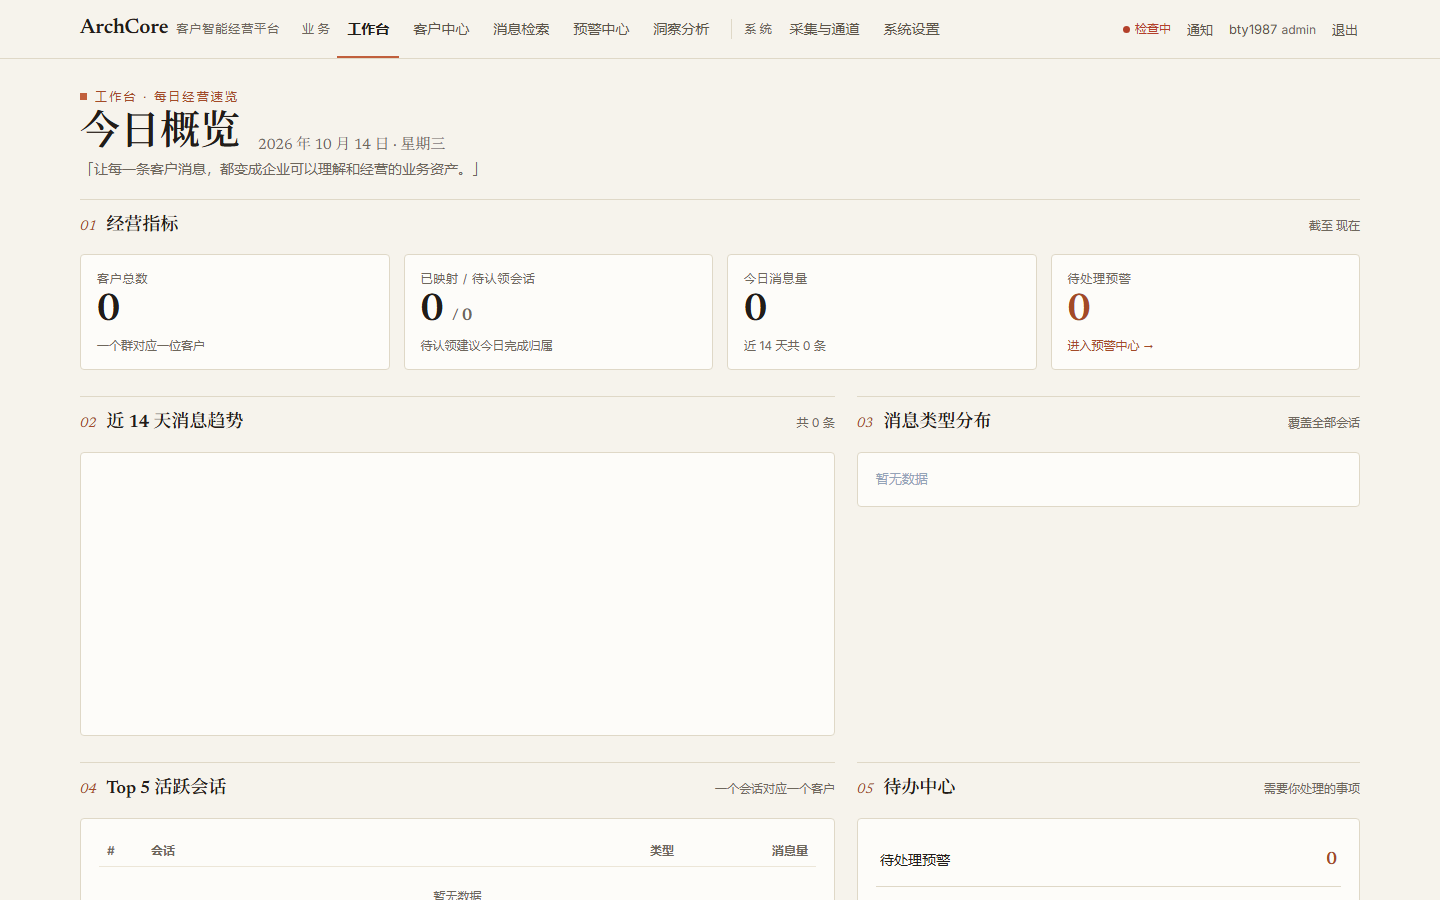
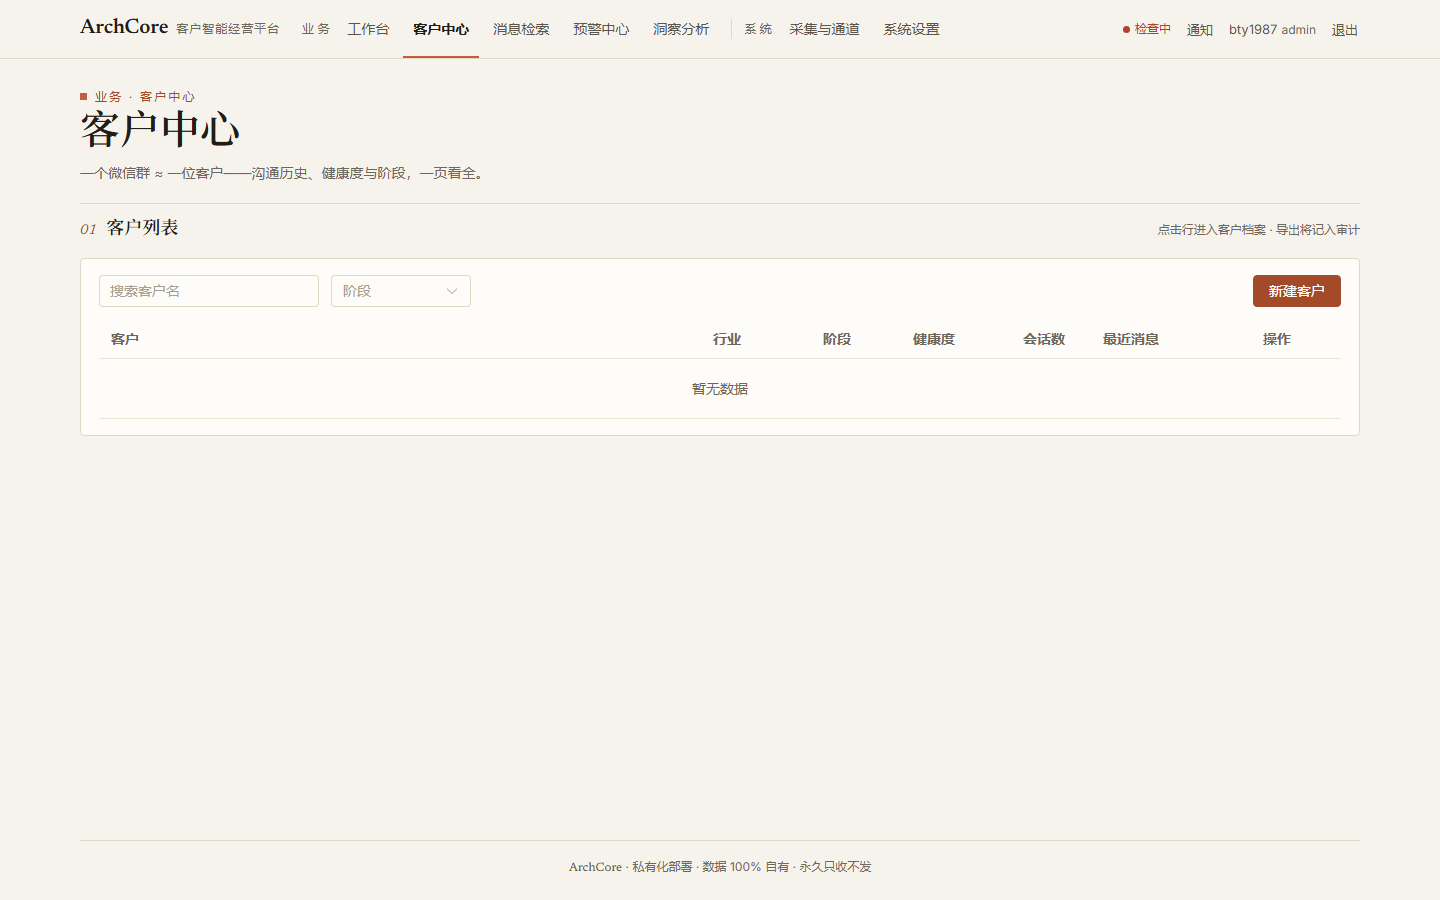
feat(web): 暖纸主题铺满全站——七页分节化收尾
- CustomerList/SessionBrowser/AlertCenter/Insights/CollectorPanel/Settings/CustomerDetail
  统一加 page-head(kicker+衬线大标题+standfirst)与 01-0N 斜体图号分节
- SessionBrowser:修复消息标签重复渲染(两块相同 v-if)、emoji 图标改中文文字芯片
  (图片/视频/语音/文件…),警示色残留统一暖纸 token
- CollectorPanel 版本冻结描述修正(4.1.8.67,替换断卡时顺手正口径)
- 五页 playwright 截图验收(design-redesign/vue_*.png),hash 路由下分节排版全生效

diff --git a/web/src/views/CustomerList.vue b/web/src/views/CustomerList.vue
@@ -43,56 +43,71 @@ async function doExport(id: number) {
 </script>
 
 <template>
-  <div class="card">
-    <div style="display: flex; gap: 12px; margin-bottom: 12px">
-      <el-input v-model="q" placeholder="搜索客户名" style="width: 220px" clearable @change="load" />
-      <el-select v-model="stage" placeholder="阶段" style="width: 140px" clearable @change="load">
-        <el-option v-for="s in STAGES" :key="s.value" :label="s.label" :value="s.value" />
-      </el-select>
-      <div style="flex: 1" />
-      <el-button type="primary" @click="dialog = true">新建客户</el-button>
+  <div>
+    <div class="page-head">
+      <div class="page-kicker">业务 · 客户中心</div>
+      <h1 class="page-title">客户中心</h1>
+      <div class="page-standfirst">一个微信群 ≈ 一位客户——沟通历史、健康度与阶段，一页看全。</div>
     </div>
 
-    <el-table :data="rows" @row-click="(r: any) => router.push(`/customers/${r.id}`)">
-      <el-table-column prop="name" label="客户" min-width="140" />
-      <el-table-column prop="industry" label="行业" width="110" />
-      <el-table-column label="阶段" width="90">
-        <template #default="{ row }">
-          {{ STAGES.find((s) => s.value === row.stage)?.label || row.stage }}
-        </template>
-      </el-table-column>
-      <el-table-column label="健康度" width="110">
-        <template #default="{ row }">
-          <el-tag v-if="row.health_level" :type="row.health_level === 'green' ? 'success' :
-            row.health_level === 'yellow' ? 'warning' : 'danger'">
-            {{ row.health_score }}
-          </el-tag>
-          <span v-else>-</span>
-        </template>
-      </el-table-column>
-      <el-table-column prop="session_count" label="会话数" width="80" />
-      <el-table-column prop="last_msg_at" label="最近消息" width="160" />
-      <el-table-column label="操作" width="90">
-        <template #default="{ row }">
-          <el-button link type="primary" @click.stop="doExport(row.id)">导出</el-button>
-        </template>
-      </el-table-column>
-    </el-table>
-
-    <el-dialog v-model="dialog" title="新建客户" width="420">
-      <el-form label-width="64">
-        <el-form-item label="名称"><el-input v-model="form.name" /></el-form-item>
-        <el-form-item label="行业"><el-input v-model="form.industry" /></el-form-item>
-        <el-form-item label="阶段">
-          <el-select v-model="form.stage">
+    <section class="section">
+      <div class="section-head">
+        <span class="section-no">01</span>
+        <span class="section-title">客户列表</span>
+        <span class="section-note">点击行进入客户档案 · 导出将记入审计</span>
+      </div>
+      <div class="card">
+        <div style="display: flex; gap: 12px; margin-bottom: 12px">
+          <el-input v-model="q" placeholder="搜索客户名" style="width: 220px" clearable @change="load" />
+          <el-select v-model="stage" placeholder="阶段" style="width: 140px" clearable @change="load">
             <el-option v-for="s in STAGES" :key="s.value" :label="s.label" :value="s.value" />
           </el-select>
-        </el-form-item>
-      </el-form>
-      <template #footer>
-        <el-button @click="dialog = false">取消</el-button>
-        <el-button type="primary" @click="save">保存</el-button>
-      </template>
-    </el-dialog>
+          <div style="flex: 1" />
+          <el-button type="primary" @click="dialog = true">新建客户</el-button>
+        </div>
+
+        <el-table :data="rows" @row-click="(r: any) => router.push(`/customers/${r.id}`)">
+          <el-table-column prop="name" label="客户" min-width="140" />
+          <el-table-column prop="industry" label="行业" width="110" />
+          <el-table-column label="阶段" width="90">
+            <template #default="{ row }">
+              {{ STAGES.find((s) => s.value === row.stage)?.label || row.stage }}
+            </template>
+          </el-table-column>
+          <el-table-column label="健康度" width="110">
+            <template #default="{ row }">
+              <el-tag v-if="row.health_level" :type="row.health_level === 'green' ? 'success' :
+                row.health_level === 'yellow' ? 'warning' : 'danger'" effect="plain">
+                {{ row.health_score }}
+              </el-tag>
+              <span v-else>-</span>
+            </template>
+          </el-table-column>
+          <el-table-column prop="session_count" label="会话数" width="80" />
+          <el-table-column prop="last_msg_at" label="最近消息" width="160" />
+          <el-table-column label="操作" width="90">
+            <template #default="{ row }">
+              <el-button link type="primary" @click.stop="doExport(row.id)">导出</el-button>
+            </template>
+          </el-table-column>
+        </el-table>
+
+        <el-dialog v-model="dialog" title="新建客户" width="420">
+          <el-form label-width="64">
+            <el-form-item label="名称"><el-input v-model="form.name" /></el-form-item>
+            <el-form-item label="行业"><el-input v-model="form.industry" /></el-form-item>
+            <el-form-item label="阶段">
+              <el-select v-model="form.stage">
+                <el-option v-for="s in STAGES" :key="s.value" :label="s.label" :value="s.value" />
+              </el-select>
+            </el-form-item>
+          </el-form>
+          <template #footer>
+            <el-button @click="dialog = false">取消</el-button>
+            <el-button type="primary" @click="save">保存</el-button>
+          </template>
+        </el-dialog>
+      </div>
+    </section>
   </div>
 </template>

diff --git a/web/src/views/SessionBrowser.vue b/web/src/views/SessionBrowser.vue
@@ -23,15 +23,15 @@ const tagInput = ref("");
 const SENDER_LABEL: Record<string, string> = {
   external: "客户方", internal: "我方同事", me: "我", system: "系统",
 };
-const TYPE_ICON: Record<string, string> = {
-  image: "🖼", video: "🎬", voice: "🎤", file: "📄", emoji: "😄",
-  location: "📍", quote: "💬", appmsg: "🗂", contact_card: "👤",
+const TYPE_LABEL: Record<string, string> = {
+  image: "图片", video: "视频", voice: "语音", file: "文件", emoji: "表情",
+  location: "位置", quote: "引用", appmsg: "链接/富载体", contact_card: "名片",
 };
 function isRich(m: any) {
   return m.msg_type !== "text" && m.msg_type !== "system";
 }
 function iconOf(m: any) {
-  return TYPE_ICON[m.msg_type] || "📎";
+  return TYPE_LABEL[m.msg_type] || "附件";
 }
 
 onMounted(async () => {
@@ -100,7 +100,19 @@ async function showContext(row: any) {
 
 <template>
   <div>
-    <div class="card" style="display: flex; gap: 12px">
+    <div class="page-head">
+      <div class="page-kicker">业务 · 消息检索</div>
+      <h1 class="page-title">消息检索</h1>
+      <div class="page-standfirst">按客户、关键词、时间、方向，定位任何一段对话——10 万条 &lt;2s。</div>
+    </div>
+
+    <section class="section">
+      <div class="section-head" style="margin-top:0">
+        <span class="section-no">01</span>
+        <span class="section-title">检索条件</span>
+        <span class="section-note">检索与导出均记入审计</span>
+      </div>
+      <div class="card" style="display: flex; gap: 12px">
       <el-select v-model="customerId" placeholder="按客户" style="width: 160px" clearable
                  @change="sessionId = null; load()">
         <el-option v-for="c in customers" :key="c.id" :label="c.name" :value="c.id" />
@@ -120,21 +132,24 @@ async function showContext(row: any) {
       <el-button type="primary" @click="load()">检索</el-button>
       <el-button :disabled="!sessionId" @click="doExport">导出本会话 CSV</el-button>
     </div>
-    <div class="card" style="padding: 8px 12px">
-      <span style="color:#94a3b8; font-size:12px">
-        提示：点击消息下方的 🏷 按钮可给关键消息打标签（如「报价」「承诺」），客户详情页会按标签汇总。
+    <div class="card" style="padding: 8px 12px; margin-top: 12px">
+      <span style="color: var(--ink-3, #6e675c); font-size:12px">
+        提示：点击消息下方的「标注」可给关键消息打标签（如「报价」「承诺」），客户详情页会按标签汇总。
       </span>
     </div>
+    </section>
 
-    <div class="card flow">
+    <section class="section">
+      <div class="section-head" style="margin-top:0">
+        <span class="section-no">02</span>
+        <span class="section-title">会话流</span>
+        <span class="section-note">按时间正序 · 点击消息查看上下文</span>
+      </div>
+      <div class="card flow">
       <div v-for="m in items" :key="m.id" class="msg" :class="m.sender_type" @click="showContext(m)">
         <div class="meta">
           {{ new Date(m.ts).toLocaleString() }} · {{ SENDER_LABEL[m.sender_type] || m.sender_type }}
           <el-tag v-if="m.recalled" size="small" type="info">已撤回</el-tag>
-        </div>
-        <div v-if="m.tags?.length" class="tags">
-          <el-tag v-for="t in m.tags" :key="t" size="small" type="warning" closable
-                  @close="removeTag(m, t)">#{{ t }}</el-tag>
         </div>
         <div v-if="m.tags?.length" class="tags">
           <el-tag v-for="t in m.tags" :key="t" size="small" type="warning" closable
@@ -146,7 +161,7 @@ async function showContext(row: any) {
           <a v-if="m.media_meta?.url" :href="m.media_meta.url" target="_blank"
              rel="noopener" class="link">查看链接 ↗</a>
         </div>
-        <el-button class="tagbtn" link size="small" @click="openTagDialog(m)">🏷 标注</el-button>
+        <el-button class="tagbtn" link size="small" @click="openTagDialog(m)">标注</el-button>
       </div>
       <el-dialog v-model="tagDialog" title="消息标注" width="360">
         <div v-if="tagMsg" style="margin-bottom: 10px; color: #475569; font-size: 13px">
@@ -167,7 +182,8 @@ async function showContext(row: any) {
       <div style="text-align: center; margin-top: 8px" v-if="nextCursor">
         <el-button @click="load(true)">加载更多</el-button>
       </div>
-    </div>
+      </div>
+    </section>
 
     <el-drawer v-model="contextMsg" title="消息上下文" size="45%">
       <div v-for="m in contextMsg || []" :key="m.id" class="msg" :class="m.sender_type">

diff --git a/web/src/views/AlertCenter.vue b/web/src/views/AlertCenter.vue
@@ -28,7 +28,20 @@ async function toggleRule(rule: any) {
 </script>
 
 <template>
-  <div class="card">
+  <div>
+    <div class="page-head">
+      <div class="page-kicker">业务 · 预警中心</div>
+      <h1 class="page-title">预警中心</h1>
+      <div class="page-standfirst">投诉、超时、沉默、风险词——需要你处理的事，都在这里。</div>
+    </div>
+
+    <section class="section">
+      <div class="section-head" style="margin-top:0">
+        <span class="section-no">01</span>
+        <span class="section-title">预警队列</span>
+        <span class="section-note">处理与忽略均记录处理人与备注</span>
+      </div>
+      <div class="card">
     <el-tabs v-model="activeTab" @tab-change="load">
       <el-tab-pane label="待处理" name="pending" />
       <el-tab-pane label="已处理" name="handled" />
@@ -55,16 +68,27 @@ async function toggleRule(rule: any) {
       <el-table-column prop="handle_note" label="处理备注" v-else />
     </el-table>
 
-    <h4 style="margin-top: 20px">预警规则（启用/停用与冷却）</h4>
-    <el-table :data="rules" size="small">
-      <el-table-column prop="code" label="规则" width="150" />
-      <el-table-column prop="level" label="级别" width="80" />
-      <el-table-column prop="cooldown_minutes" label="冷却(分钟)" width="110" />
-      <el-table-column label="启用">
-        <template #default="{ row }">
-          <el-switch v-model="row.enabled" @change="toggleRule(row)" />
-        </template>
-      </el-table-column>
-    </el-table>
+      </div>
+    </section>
+
+    <section class="section">
+      <div class="section-head" style="margin-top:0">
+        <span class="section-no">02</span>
+        <span class="section-title">预警规则</span>
+        <span class="section-note">启用/停用与冷却时间</span>
+      </div>
+      <div class="card">
+        <el-table :data="rules" size="small">
+          <el-table-column prop="code" label="规则" width="150" />
+          <el-table-column prop="level" label="级别" width="80" />
+          <el-table-column prop="cooldown_minutes" label="冷却(分钟)" width="110" />
+          <el-table-column label="启用">
+            <template #default="{ row }">
+              <el-switch v-model="row.enabled" @change="toggleRule(row)" />
+            </template>
+          </el-table-column>
+        </el-table>
+      </div>
+    </section>
   </div>
 </template>

diff --git a/web/src/views/CustomerDetail.vue b/web/src/views/CustomerDetail.vue
@@ -81,10 +81,14 @@ async function claim() {
 
 <template>
   <div>
+    <div class="page-head">
+      <div class="page-kicker">业务 · 客户中心</div>
+      <h1 class="page-title" style="font-size:34px">{{ customer.name || "客户档案" }}</h1>
+      <div class="page-standfirst">
+        <el-link type="primary" @click="router.push('/customers')">← 返回客户列表</el-link>
+      </div>
+    </div>
     <div class="card">
-      <el-page-header :title="'客户列表'" @back="router.push('/customers')">
-        <template #content><b style="font-size: 18px">{{ customer.name }}</b></template>
-      </el-page-header>
       <el-descriptions :column="4" style="margin-top: 12px">
         <el-descriptions-item label="行业">{{ customer.industry || "-" }}</el-descriptions-item>
         <el-descriptions-item label="阶段">{{ customer.stage }}</el-descriptions-item>

diff --git a/web/src/views/Settings.vue b/web/src/views/Settings.vue
@@ -84,7 +84,13 @@ async function test(id: number) {
 </script>
 
 <template>
-  <div class="card">
+  <div>
+    <div class="page-head">
+      <div class="page-kicker">系统 · 系统设置</div>
+      <h1 class="page-title">系统设置</h1>
+      <div class="page-standfirst">账号与角色、内部成员、词库、AI 与通知渠道。</div>
+    </div>
+    <div class="card">
     <el-tabs v-model="tab">
       <el-tab-pane label="账号" name="users">
         <el-table :data="users" size="small">
@@ -215,5 +221,6 @@ async function test(id: number) {
         </el-form>
       </el-tab-pane>
     </el-tabs>
+    </div>
   </div>
 </template>

diff --git a/web/src/views/CollectorPanel.vue b/web/src/views/CollectorPanel.vue
@@ -72,6 +72,11 @@ function inWhitelist(wxId: string) {
 
 <template>
   <div>
+    <div class="page-head">
+      <div class="page-kicker">系统 · 采集与通道</div>
+      <h1 class="page-title">采集与通道</h1>
+      <div class="page-standfirst">数据管道健康、白名单边界与版本冻结状态。</div>
+    </div>
     <div class="card">
       <h4>采集状态</h4>
       <el-descriptions :column="3" border>
